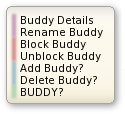
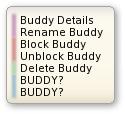
Add 'removeCurrentBuddy', add to buddy menu. Scrap addBuddy option from menu.

Changed region(s): [[0.144, 0.5526, 0.792, 0.7632], [0.096, 0.6316, 0.12, 0.6579]]

diff --git a/trunk/PSP/Plugins/APP_afkim/gui/menuBuddyOptions.cc b/trunk/PSP/Plugins/APP_afkim/gui/menuBuddyOptions.cc
@@ -33,8 +33,8 @@ string menuBuddyOptions::getInputKey() const
 //the value returned here is the value returned to takeInput
 string menuBuddyOptions::fixSelected()
 {
-	if (selected < 0) selected = 6;
-	if (selected > 6) selected = 0;
+	if (selected < 0) selected = 4;
+	if (selected > 4) selected = 0;
 	return getInputKey();
 }
 
@@ -54,9 +54,10 @@ string menuBuddyOptions::pressCross()
 		case 3: //Unblock Buddy
 			bitlbeeCallback::getBee()->allowCurrentBuddy();
 			return ((menuMain*)inputs["menuMain"])->changeReturnVal; //HACK
-		case 4: //Add Buddy
-			break;
-		case 5: //Delete Buddy
+		case 4: //Delete Buddy
+			bitlbeeCallback::getBee()->removeCurrentBuddy();
+			return ((menuMain*)inputs["menuMain"])->changeReturnVal; //HACK
+		case 5: //BUDDY?
 			break;
 		case 6: //BUDDY?
 			break;

diff --git a/trunk/PSP/Plugins/APP_afkim/bitlbee.cc b/trunk/PSP/Plugins/APP_afkim/bitlbee.cc
@@ -448,6 +448,12 @@ void bitlbeeCallback::renameCurrentBuddy(const wstring &newNick)
 		myirc->sendPM("&bitlbee", "rename " + unUnicode(currentMainWindow) + " " + unUnicode(newNick));
 }
 
+void bitlbeeCallback::removeCurrentBuddy()
+{
+	if (currentMainWindow.length() > 0)
+		myirc->sendPM("&bitlbee", "remove " + unUnicode(currentMainWindow));
+}
+
 bool bitlbeeCallback::isTalkingToSomeone()
 {
 	return (currentMainWindow.length() > 0);

diff --git a/trunk/PSP/Plugins/APP_afkim/bitlbee.h b/trunk/PSP/Plugins/APP_afkim/bitlbee.h
@@ -138,7 +138,8 @@ public:
 	void allowCurrentBuddy();
 	//Rename the current Buddy (unless server)
 	void renameCurrentBuddy(const wstring &newNick);
-	
+	//Remove the current Buddy from your contact list
+	void removeCurrentBuddy();
 	//Returns true if a buddy is selected, false if server window is selected
 	bool isTalkingToSomeone();
 	
